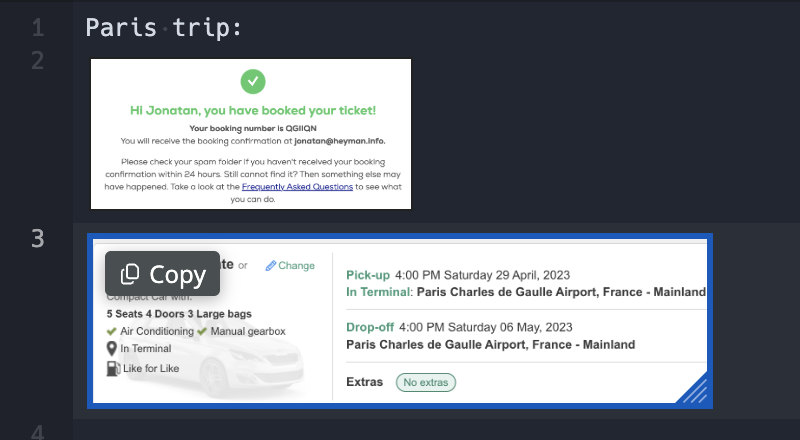
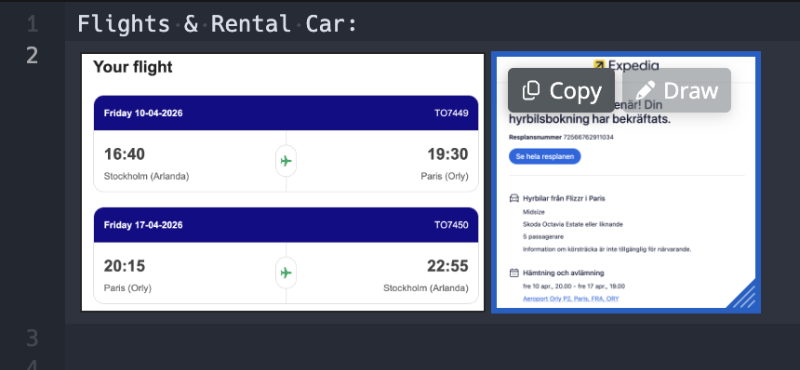
Update images screenshot (previous version were missing the Draw button). Add section about image markup.

diff --git a/templates/index.html b/templates/index.html
@@ -237,6 +237,24 @@
       </div>
     </div>
 
+    <div class="feature">
+      <div class="text">
+        <h3>Markup Images</h3>
+        <p>
+          Heynote includes a lightweight drawing tool for adding quick, freehand annotations on top of images.
+        </p>
+        <p>
+          Once you’ve marked up your image, updating your clipboard with the new version is instant — just a single click or keystroke, and it's ready to paste wherever you need it.
+        </p>
+      </div>
+      <div class="image-container">
+        <picture>
+          <source srcset="img/dark/markup.png" media="(prefers-color-scheme: dark)">
+          <img src="img/light/markup.png" alt="Screenshot of blocks" class="image">
+        </picture>
+      </div>
+    </div>
+
   </section>
 
   <section class="downloads" id="downloads">
